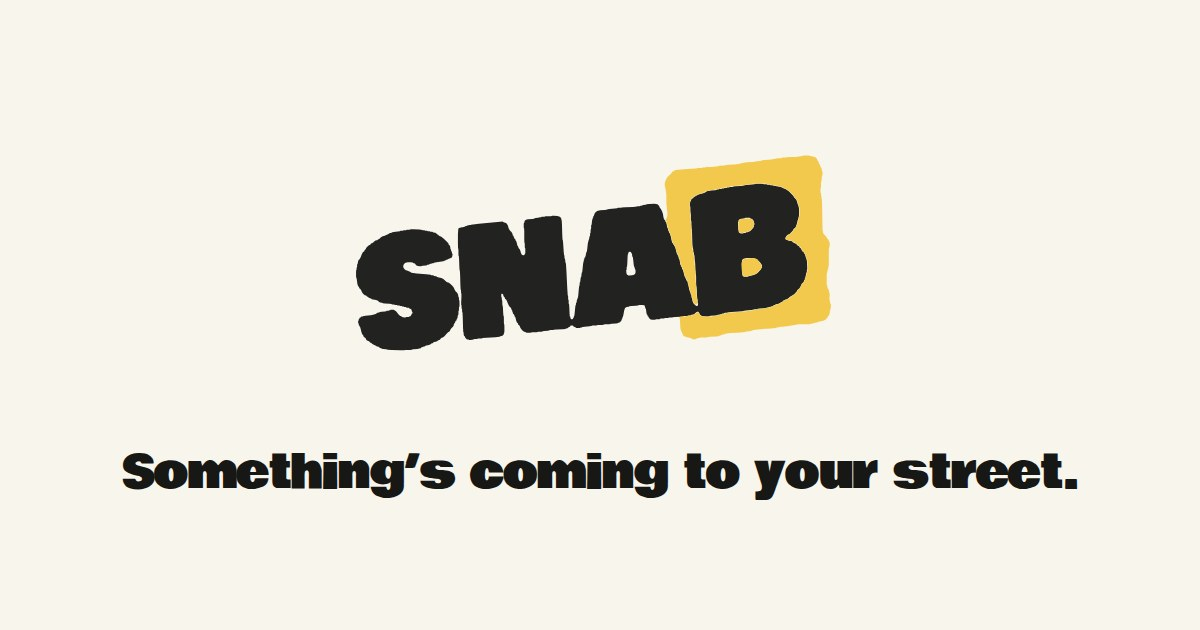
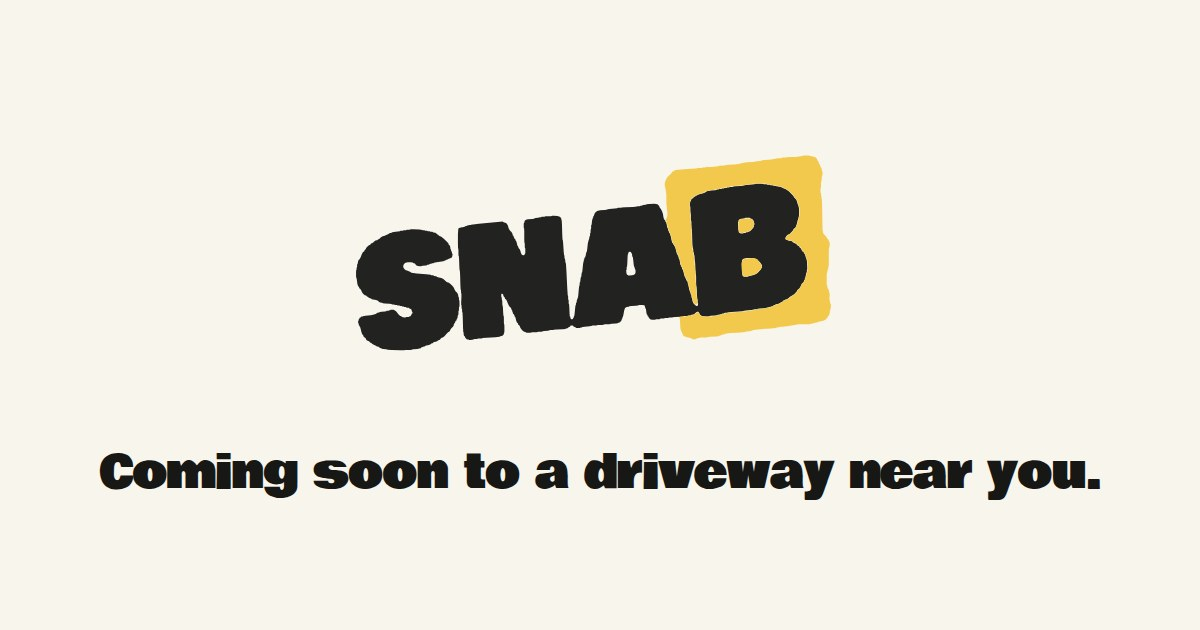
Change the teaser line to "Coming soon to a driveway near you."
Claude-Session: https://claude.ai/code/session_011g6MF7ixRy4KytnZ6SgLqL

Changed region(s): [[0.0617, 0.6937, 0.925, 0.8143]]

diff --git a/app/layout.tsx b/app/layout.tsx
@@ -11,9 +11,9 @@ const siteUrl = process.env.NEXT_PUBLIC_SITE_URL || "https://olivedrab-rabbit-86
 // While the coming soon teaser is on, shares and search results give nothing away either.
 const teaser = comingSoonHome;
 const title = teaser ? "SNAB" : "SNAB — Garage sales. Great finds.";
-const description = teaser ? "Something’s coming to your street." : "Browse garage sales, save your favourites and give your good stuff a new home. Add photos, set the details and preview your own sale with SNAB.";
+const description = teaser ? "Coming soon to a driveway near you." : "Browse garage sales, save your favourites and give your good stuff a new home. Add photos, set the details and preview your own sale with SNAB.";
 const image = teaser
-  ? { url: "/social/teaser-preview.jpg", width: 1200, height: 630, alt: "SNAB. Something’s coming to your street." }
+  ? { url: "/social/teaser-preview.jpg", width: 1200, height: 630, alt: "SNAB. Coming soon to a driveway near you." }
   : { url: "/social/link-preview.jpg", width: 1200, height: 630, alt: "SNAB: Good stuff finds new people. Garage Sales Made Easy." };
 
 export const metadata: Metadata = {

diff --git a/components/coming-soon.tsx b/components/coming-soon.tsx
@@ -8,7 +8,7 @@ export function ComingSoon() {
     <div className="soon-site">
       <main className="soon-main" id="main-content">
         <Image className="soon-logo" src="/brand/snab-highlight-final-b.svg" alt="SNAB" width={1072} height={528} priority />
-        <h1 className="soon-line">Something’s coming to your street.</h1>
+        <h1 className="soon-line">Coming soon to a driveway near you.</h1>
         <InterestForm />
       </main>
     </div>

diff --git a/components/interest-form.tsx b/components/interest-form.tsx
@@ -27,7 +27,7 @@ export function InterestForm() {
     return (
       <div className="soon-form soon-done" id="join" role="status">
         <h2>You’re on the list.</h2>
-        <p>Keep an eye on your street. We’ll email you when it’s time.</p>
+        <p>Keep an eye on the driveways. We’ll email you when it’s time.</p>
       </div>
     );
   }

diff --git a/app/coming-soon/page.tsx b/app/coming-soon/page.tsx
@@ -3,7 +3,7 @@ import { ComingSoon } from "../../components/coming-soon";
 
 export const metadata: Metadata = {
   title: "SNAB",
-  description: "Something’s coming to your street.",
+  description: "Coming soon to a driveway near you.",
 };
 
 export default function ComingSoonPage() {
